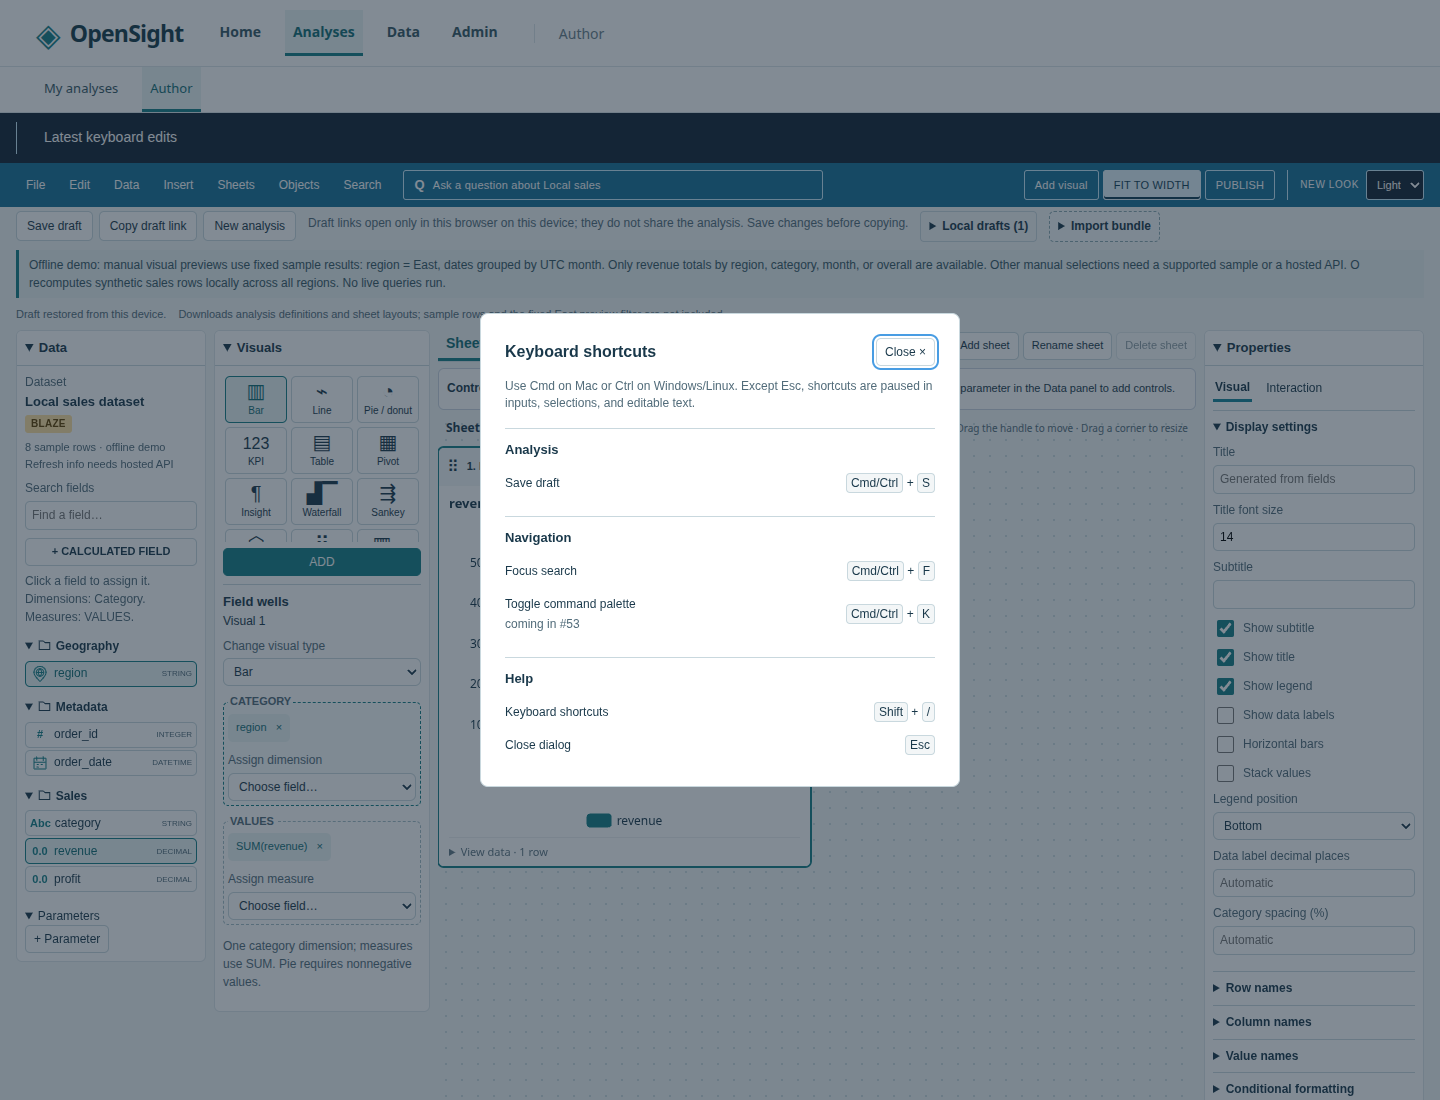
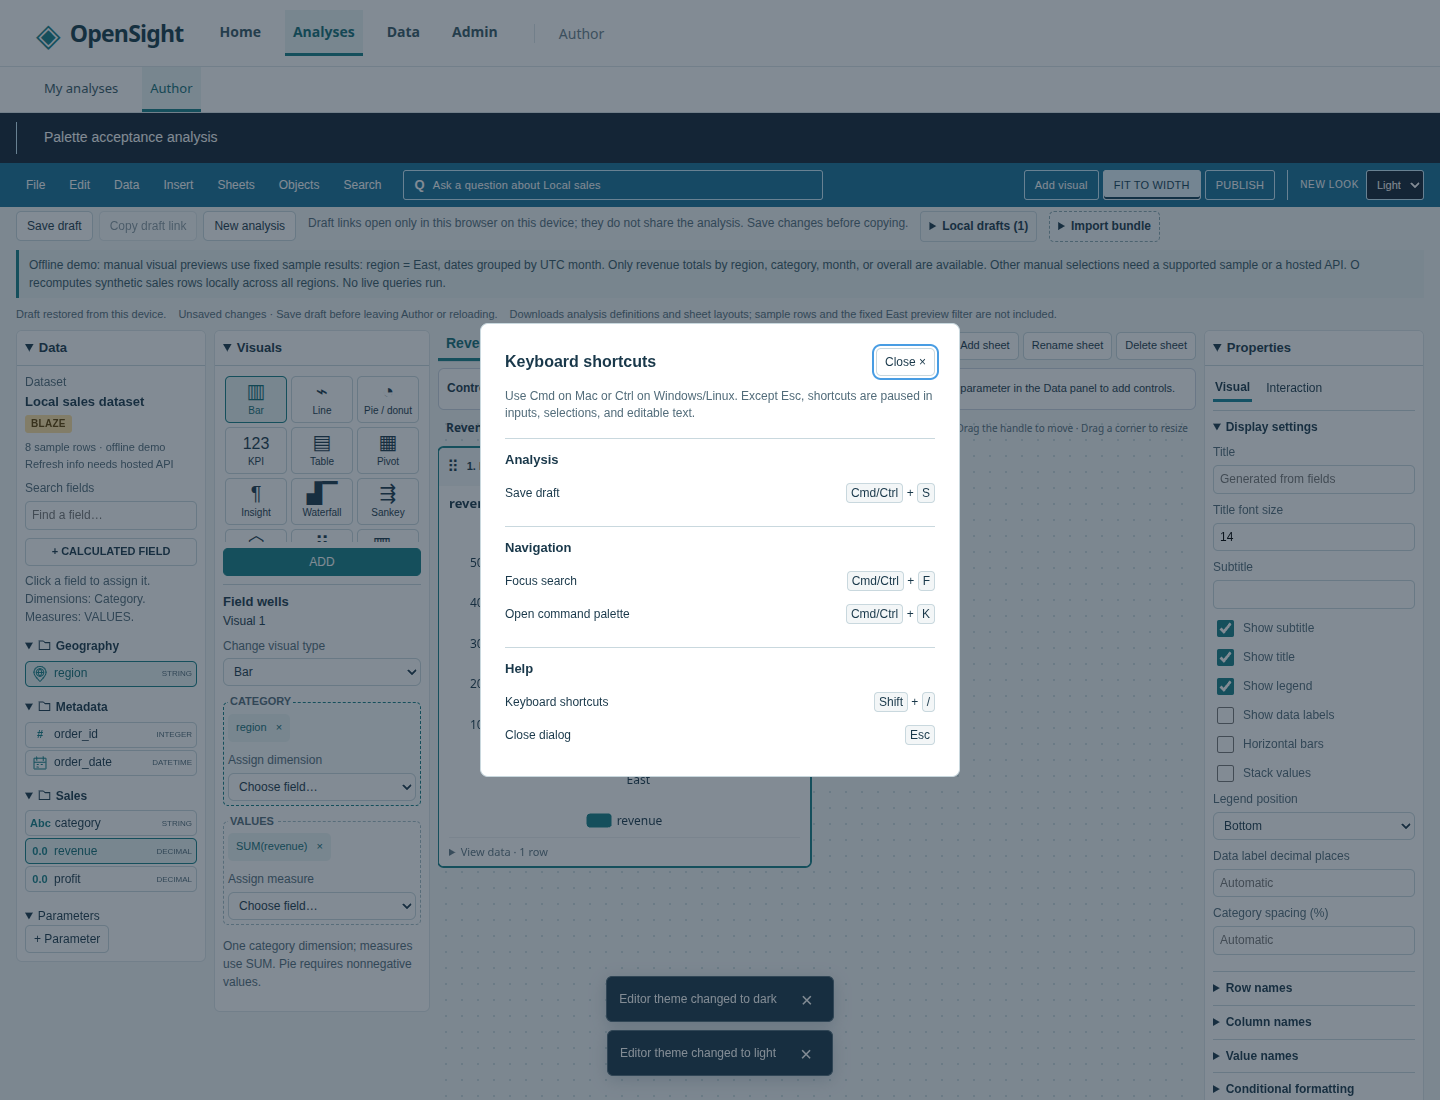
Issue #53: document verification and refresh demo media

diff --git a/docs/issue-53-gap-notes.md b/docs/issue-53-gap-notes.md
@@ -1,0 +1,92 @@
+# Issue #53 — Command palette
+
+Implemented from the supplied issue brief on `work/issue-53-command-palette`.
+No dependencies were added and `SOLUTION_DESIGN.md` is unchanged. See
+[Command palette](command-palette.md) for behavior and accessibility details.
+
+## Integration and verification
+
+The application owns one palette provider, scoped by the existing workspace
+identity boundary. Navigation commands use the existing route destinations and
+visibility checks. Mounted Author and Q components register their available
+actions and remove them on unmount. A failed analysis load registers no Author
+actions. Author's manual save callback is shared by its button, shortcut and
+palette command. Theme and sheet changes use the existing reducer actions; Q&A
+uses the panel's shared open handler, including refocusing an already-open panel.
+
+The small matcher ranks substrings, word starts and ordered fuzzy characters,
+retaining menu order for ties. The dialog uses a labelled combobox and listbox,
+an active descendant, selected options and a result-count status. Arrow keys
+wrap; filtering resets selection; empty results and composing/repeated Enter
+cannot execute. Tab wraps between Search and Close, and native Escape dismisses.
+Selection closes the dialog and restores focus before running its action.
+Navigation that removes the original control focuses the persistent Home link.
+Save failures preserve storage recovery details and add a failure toast; thrown
+or rejected commands also use the existing toast host.
+
+Nineteen new unit/component tests run through the existing web/root test glob.
+Together with the existing keyboard and Q tests, the focused run passed
+**43 / failed 0 / skipped 0**. Coverage includes matching and ranking, permissions,
+registration cleanup, latest draft callbacks, rename/delete sheet updates,
+storage errors, native-cancel delegation, selection and dismissal focus,
+Tab wrapping, Q refocusing, IME guards, StrictMode listener cleanup and failures.
+Browser testing exposed Tab leaving the palette for browser chrome; explicit
+wrapping fixed it and is covered by a regression test.
+
+`npm run build:demo --workspace @opensight/web` rebuilt the static demo and embed
+artifacts with strict TypeScript checks. Chromium acceptance passed Cmd/Ctrl+K,
+filtering and keyboard selection, save/reload, all navigation
+destinations, theme changes, sheet jumping and renaming, Home/Author Q&A,
+focus restoration, typing/composition/modal guards and context cleanup. The
+390px and short-height viewport checks passed. There were **zero page errors
+and zero external requests**. Firefox, WebKit and screen-reader speech output
+were not exercised.
+
+## Visual comparison and refreshed media
+
+At 1440px, baseline-versus-current screenshots found **zero changed pixels**
+on Home, empty Author and populated Author while the palette was closed.
+The local QuickSight NEW LOOK reference confirms the compact editor typography,
+navy/blue chrome and Data → Visuals/wells → sheet arrangement. The palette uses
+12px Arial body text, 13px headings, 4/8px spacing, and the current Author light
+or dark treatment. Its modal fits the narrow viewport and scrolls its results.
+No new unresolved visual defect was found. No QuickSight command-palette
+reference was supplied; palette parity and overall visual fidelity are unmeasured.
+
+`docs/images/command-palette.png` is the new feature capture. The affected
+keyboard-shortcuts screenshot was refreshed to show the active palette entry.
+Other existing feature screenshots remain representative because their UI did
+not change. README links the new behavior doc and screenshot.
+
+The README hero GIF was regenerated against the freshly rebuilt static demo,
+using the maintained adaptation of the workspace capture script and its FFmpeg
+palette workflow. The tour includes opening the palette, filtering Save draft,
+and executing it alongside the existing feature sequence. Capture produced
+187 frames with zero page errors; the result is 960×600 at 10fps.
+
+Browser scripts, captures, pixel comparisons, GIF frames and verification logs
+remain locally in ignored `.opensight/issue-53/`. External HTTP requests were
+blocked during capture. Reference screenshots and private data were not committed.
+The demo is a static artifact, not a deployed server.
+
+## Final full-suite results
+
+`TZ=UTC npm test` from the repository root exited **0**:
+**1,840 passed / 0 failed / 12 skipped / 0 cancelled**. All skips require live
+PostgreSQL with `DATABASE_URL`; no web test was skipped. Workspace builds and
+strict TypeScript checks passed. The full run completed without a retry.
+
+| Runner | Passed | Failed | Skipped |
+| --- | ---: | ---: | ---: |
+| API | 303 | 0 | 10 |
+| Bundle parser | 199 | 0 | 0 |
+| Embedding SDK | 9 | 0 | 0 |
+| O interpreter | 32 | 0 | 0 |
+| Parity | 11 | 0 | 0 |
+| Query engine | 500 | 0 | 2 |
+| Web | 780 | 0 | 0 |
+| Root conformance | 6 | 0 | 0 |
+| **Total** | **1,840** | **0** | **12** |
+
+`git diff bb9e7b58 --check` is clean. Checkpoint commits remain on the requested
+work branch. Nothing was merged, pushed or published.

diff --git a/docs/keyboard-shortcuts.md b/docs/keyboard-shortcuts.md
@@ -7,7 +7,7 @@ Use **Cmd** on macOS or **Ctrl** on Windows/Linux; both modifiers are accepted.
 | --- | --- |
 | Cmd/Ctrl+S | Save the current device-local draft; show **Draft saved** through the existing toast host only after success. |
 | Cmd/Ctrl+F | Open the toolbar's **Search** menu and focus **Search analysis**. |
-| Cmd/Ctrl+K | Reserved for **Toggle command palette — coming in #53**. The handler is deliberately a no-op. |
+| Cmd/Ctrl+K | Open the [command palette](command-palette.md) for navigation and available actions. |
 | ? (Shift+/) | Open **Keyboard shortcuts**. |
 | Esc | Close the current dialog through its existing dismissal handler. |
 
@@ -19,11 +19,12 @@ dialogs pause background actions; Esc keeps the browser's native cancel
 behavior. Ask Q yields Escape to a native modal above it. Help uses a named
 native dialog with a focused Close button and restores focus when dismissed.
 
-These bindings are attached only while an authorized Author workspace is
-mounted. Navigating away, losing build access, or failing to open a saved
-analysis leaves no Author shortcut listener active. Saving reuses the manual
+Save, Search, and Help are attached only while an authorized Author workspace is
+mounted. The command palette is available across application pages. Navigating
+away, losing build access, or failing to open a saved analysis removes the
+Author shortcut listener. Saving reuses the manual
 `useLocalDrafts().save()` path, including its error reporting and storage scope.
-This change adds no autosave, sync, hosted save endpoint, or command palette.
+Saving remains device-local, without autosave or synchronization.
 See [local drafts](local-drafts.md) for device-local storage limits.
 
 ![Author keyboard shortcuts](images/keyboard-shortcuts.png)
@@ -41,11 +42,12 @@ See [local drafts](local-drafts.md) for device-local storage limits.
 
 To add a shortcut, add its stable ID, label, group, and key to
 `AUTHOR_SHORTCUTS`. Set `modifier: true` for a Cmd/Ctrl binding. Add its action
-to `AuthorShortcuts`; `AuthorShortcutActions` requires a handler for each
-non-native entry. The help list and key rendering come from the registry.
+to `AuthorShortcuts`. The shared palette listener registers only its own action;
+missing actions leave the browser event untouched. The help list and key
+rendering come from the registry.
 Keep native Escape unconsumed so dialogs retain their cancel and focus behavior.
-For #53, replace the documented palette no-op with the real toggle and remove
-its `coming` label only when the palette exists.
+The palette uses the same typing and modal guards, with its own arrows and Enter
+handling inside the dialog.
 
 Add simulated keyboard coverage in
 `packages/web/test/keyboard-shortcuts.test.mjs` and action/UI coverage in

diff --git a/README.md b/README.md
@@ -8,7 +8,7 @@ bidirectional asset compatibility — connect data, prepare datasets, build
 analyses and dashboards, and ask questions in natural language. Self-hosted;
 no AWS required.
 
-![OpenSight tour: dashboard, back to top, O answer, authoring, radar, Sankey, waterfall, insight, pivot, saved drafts, and data tools](docs/images/opensight-tour.gif)
+![OpenSight tour: dashboard, back to top, O answer, command palette, authoring, radar, Sankey, waterfall, insight, pivot, saved drafts, and data tools](docs/images/opensight-tour.gif)
 
 *Above: the offline demo — a dashboard, O answering "revenue by region" and
 adding the chart to an analysis, saved drafts, data preparation, connectors,
@@ -85,6 +85,12 @@ modes remain available under their role permissions. See
 Long dashboards and the connector gallery show a keyboard-accessible
 [Back to top button](docs/back-to-top.md) after 600px of page scrolling, with
 an instant jump when reduced motion is preferred.
+
+Press **Cmd/Ctrl+K** for the [command palette](docs/command-palette.md): search
+navigation and available actions, save the current draft, switch NEW LOOK, jump
+between analysis sheets, or open Q&A. Use arrows, Enter, and Esc from the keyboard.
+
+![Command palette with navigation and current analysis actions](docs/images/command-palette.png)
 
 ![Authoring canvas with assigned fields and the Ask a question trigger in the toolbar](docs/images/author.png)
 

diff --git a/docs/command-palette.md b/docs/command-palette.md
@@ -25,10 +25,13 @@ link. Opening Q&A then focuses its question input. Failed commands use the toast
 host; successful saves retain the existing **Draft saved** notification.
 
 The search is an accessible combobox controlling a labelled listbox, with an
-active descendant and selected options. The native dialog contains Tab focus.
+active descendant and selected options. Tab and Shift+Tab wrap between Search
+and Close inside the native dialog.
 Editor typography, 4/8px spacing, navy chrome, and the current Author light/dark
 treatment apply; the analysis chart theme is independent.
 
 Unit and component tests run with the web workspace and root `npm test`.
 Browser checks cover native focus, keyboard operation, context changes and
 viewport fit against the freshly rebuilt static demo.
+
+![Command palette in Author](images/command-palette.png)
